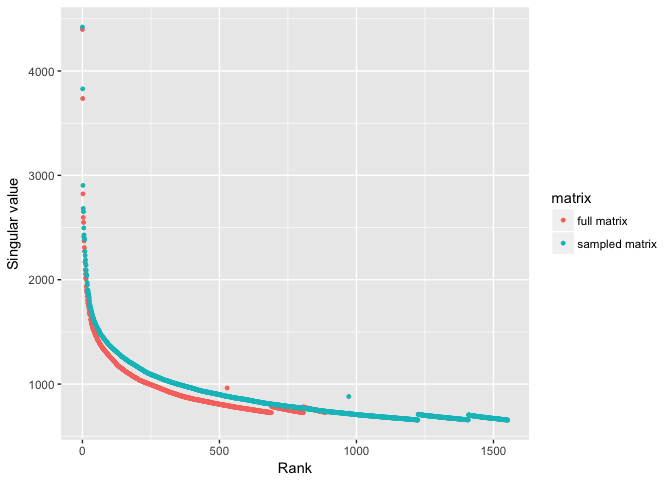
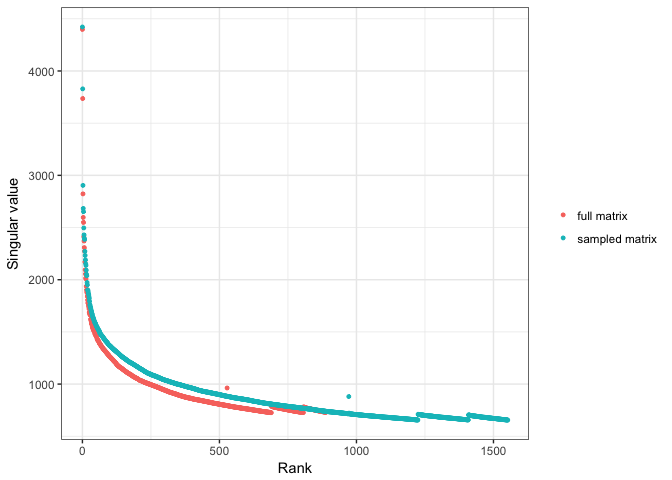
Improve figures
- Remove grey background
- Remove legend title

diff --git a/Graph_Sparsification/Result/big_matrix_sampling_tfidf/big_matrix_sampling.md b/Graph_Sparsification/Result/big_matrix_sampling_tfidf/big_matrix_sampling.md
@@ -42,7 +42,7 @@ head(singular_value)
 First let's plot the error 
 
 ```r
-ggplot(singular_value, aes(x = rank, y = error_estimate)) + geom_point(size=1) + ylab("Error estimate") + xlab("Rank")
+ggplot(singular_value, aes(x = rank, y = error_estimate)) + geom_point(size=1, alpha=0.5) + ylab("Error estimate") + xlab("Rank") + theme_bw() 
 ```
 
 ![](big_matrix_sampling_files/figure-html/error_estimates-1.png)<!-- -->
@@ -63,7 +63,7 @@ nsv
 Plotting the singular value
 
 ```r
-ggplot(singular_value, aes(x = rank, y = singular_value)) + geom_point(size=1) + ylab("Singular value") + xlab("Rank")
+ggplot(singular_value, aes(x = rank, y = singular_value)) + geom_point(size=1) + ylab("Singular value") + xlab("Rank") + theme_bw() 
 ```
 
 ![](big_matrix_sampling_files/figure-html/singular_value_plot-1.png)<!-- -->
@@ -85,7 +85,7 @@ First let's plot the error
 
 ```r
 singularval_fullmatrix <- read.table("sVals_full_matrix_1100.summary", header=TRUE)
-ggplot(singularval_fullmatrix, aes(x = rank, y = error_estimate)) + geom_point(size=1) + ylab("Error estimate") + xlab("Rank")
+ggplot(singularval_fullmatrix, aes(x = rank, y = error_estimate)) + geom_point(size=1, alpha=0.5) + ylab("Error estimate") + xlab("Rank")
 ```
 
 ![](big_matrix_sampling_files/figure-html/error_estimates_fullmatrix-1.png)<!-- -->
@@ -94,25 +94,17 @@ It's clear that after some nsv, the error jumps up significantly, so we do not w
 
 ```r
 nsv <- sum(singularval_fullmatrix$error_estimate < 0.5)
-singularval_fullmatrix$error_estimate[nsv]
+nsv
 ```
 
 ```
-## [1] 0.305084
-```
-
-```r
-singularval_fullmatrix$error_estimate[nsv+1]
-```
-
-```
-## [1] 1.93905
+## [1] 529
 ```
 
 ### singular values 
 
 ```r
-ggplot(singularval_fullmatrix, aes(x = rank, y = singular_value)) + geom_point(size=1) + ylab("Singular value") + xlab("Rank")
+ggplot(singularval_fullmatrix, aes(x = rank, y = singular_value)) + geom_point(size=1) + ylab("Singular value") + xlab("Rank") + theme_bw() 
 ```
 
 ![](big_matrix_sampling_files/figure-html/singular_value_plot_fullmatrix-1.png)<!-- -->
@@ -128,7 +120,7 @@ The number of singular values measured to be useable are 529.
 singular_value$matrix <- factor("sampled matrix")
 singularval_fullmatrix$matrix <- factor("full matrix")
 svals <- rbind(singularval_fullmatrix, singular_value)
-ggplot(svals, aes(x = rank, y = singular_value, colour=matrix)) + geom_point(size=1) + ylab("Singular value") + xlab("Rank")
+ggplot(svals, aes(x = rank, y = singular_value, colour=matrix)) + geom_point(size=1) + ylab("Singular value") + xlab("Rank") + theme_bw() + theme(legend.title=element_blank())
 ```
 
 ![](big_matrix_sampling_files/figure-html/compare_svals-1.png)<!-- -->
@@ -153,7 +145,7 @@ sampled_100X_0.01_2000nsv_cov$matrix <- factor("sampled matrix")
 full_matrix_1000nsv_cov$matrix  <- factor("full matrix")
 coverage <- rbind(sampled_100X_0.01_2000nsv_cov, full_matrix_1000nsv_cov)
 
-ggplot(coverage, aes(x = nsv, y = coverage, colour=matrix)) + geom_point(size=1) + ylab("coverage") + xlab("# singular values")
+ggplot(coverage, aes(x = nsv, y = coverage, colour=matrix)) + geom_point(size=1) + ylab("coverage") + xlab("# singular values") + theme_bw() + theme(legend.title=element_blank())
 ```
 
 ![](big_matrix_sampling_files/figure-html/coverage_graph-1.png)<!-- -->
@@ -171,7 +163,7 @@ I repeated the previous step on the full matrix but this time with more singular
 
 ```r
 svals_full <- read.table("sVals_full_matrix_2000.summary", header=TRUE)
-ggplot(svals_full, aes(x = rank, y = error_estimate)) + geom_point(size=1) + ylab("Error estimate") + xlab("Rank") + theme_bw()
+ggplot(svals_full, aes(x = rank, y = error_estimate)) + geom_point(size=1, alpha=0.5) + ylab("Error estimate") + xlab("Rank") + theme_bw()
 ```
 
 ![](big_matrix_sampling_files/figure-html/unnamed-chunk-2-1.png)<!-- -->
